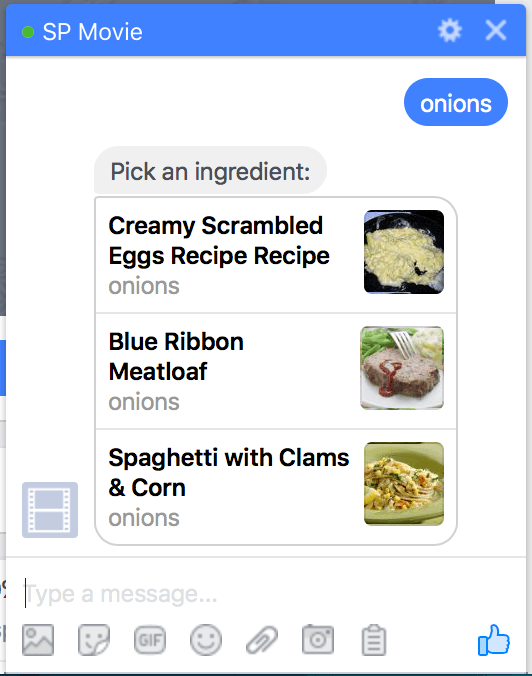
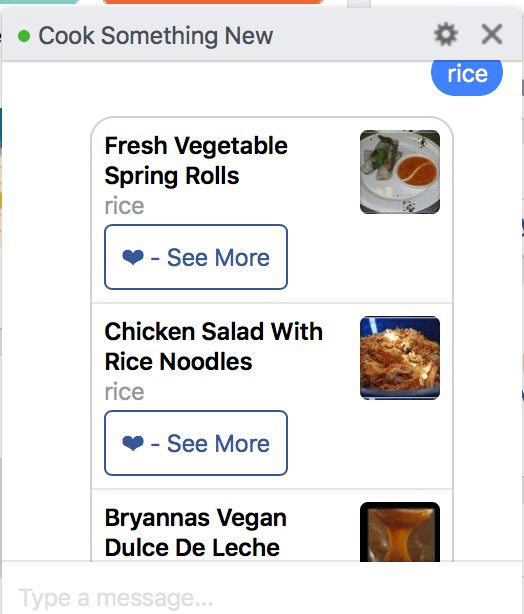
Update screenshots

diff --git a/README.md b/README.md
@@ -1,2 +1,10 @@
-# fbot
-FB Messanger Bot
+# Facebook Messenger Recipe Bot
+
+* Facebook messenger bot that helps you discover new recipes.
+
+### Screenshots
+
+![Cancel Request](/screenshots/screen_cancel.png?raw=true "Cancel Request")
+![Pick Ingredients](/screenshots/screen_pick.png?raw=true "Pick Ingredients")
+![Recipe List](/screenshots/screen_list.png?raw=true "Recipe List")
+![Chosen Recipe](/screenshots/screen_chosen.png?raw=true "Chosen Recipe")
